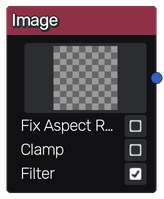
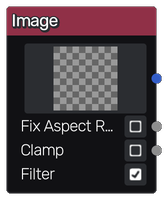
Added Width/Height outputs for image node

diff --git a/material_maker/doc/node_simple_image.rst b/material_maker/doc/node_simple_image.rst
@@ -14,7 +14,19 @@ The image node does not accept any input.
 Outputs
 +++++++
 
-The image node provides a single color texture.
+The **Image** node provides three outputs:
+
+* An RGBA texture of the image.
+
+* Width of the image in pixels.
+
+* Height of the image in pixels.
+
+The *Width* and *Height* outputs can be used with the
+:doc:`Transform Node </node_transform>` to fix aspect ratio manually:
+
+.. image:: images/node_image_fix_aspect.png
+	:align: center
 
 Parameters
 ++++++++++
